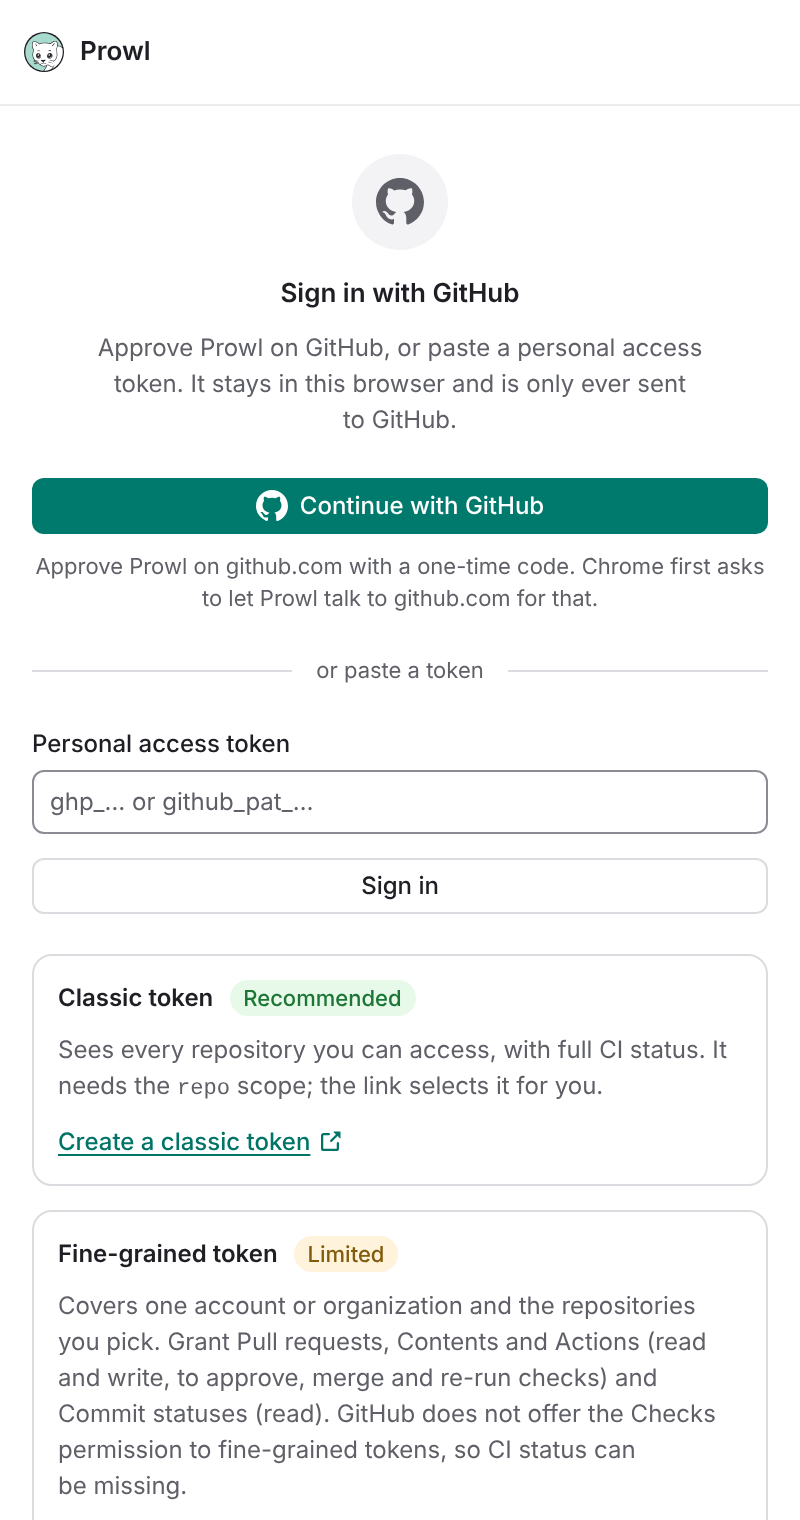
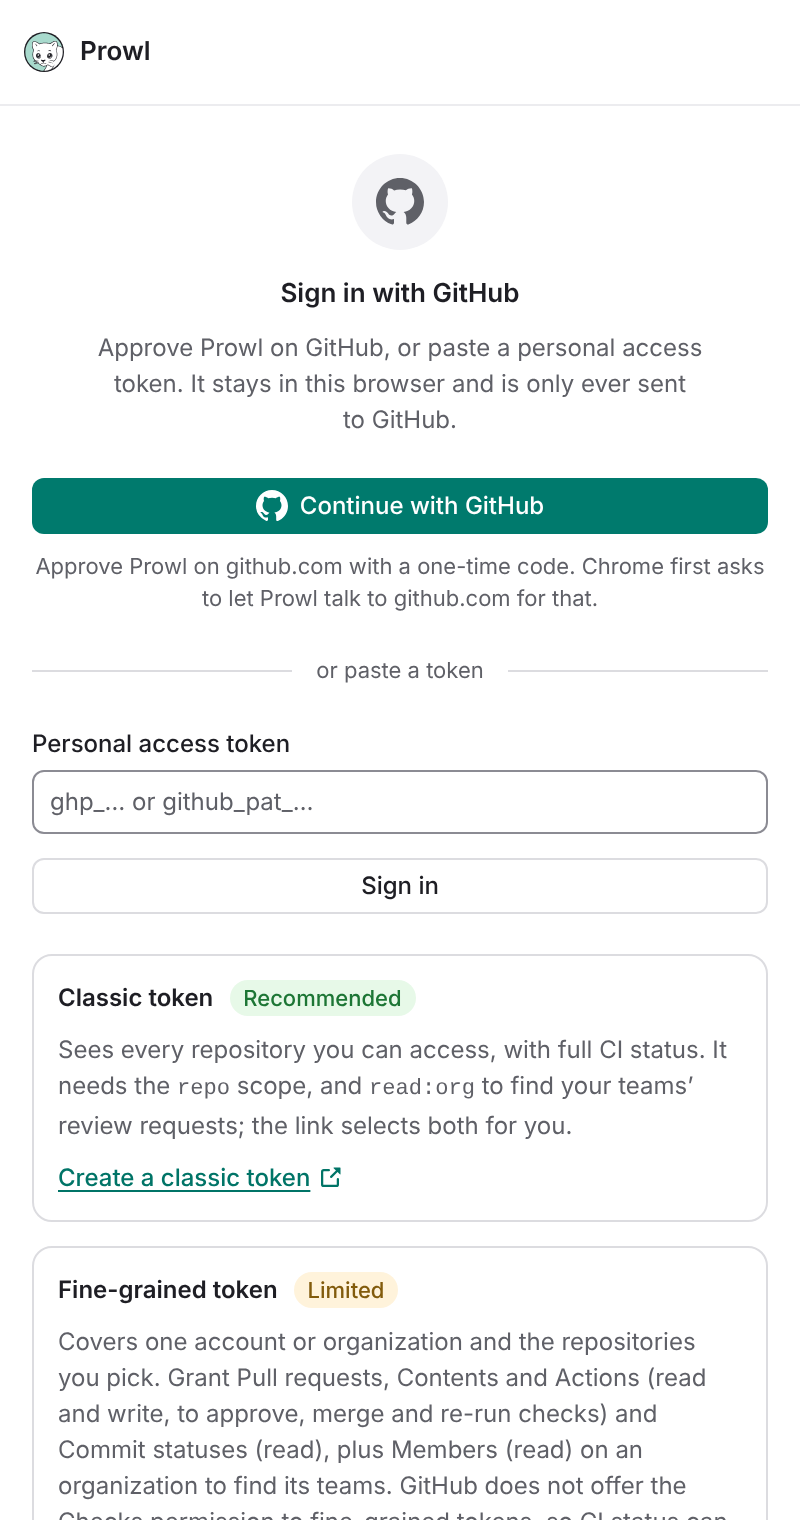
docs: audit follow-up, refreshed screenshots and store images
Architecture (poll interval was min 1/default 2, now min 2/default 5 as in
the code; SAML notes, token expiry, summary clicks, header inset), status
page brought to v1.3.1, auth guide (SAML, expiry), privacy, accessibility,
decisions, why a Dependabot pull request stays open (releasing), the
threat model and a security review entry for this audit.

Claude-Session: https://claude.ai/code/session_01DJF4RsqqqqS4tX5kLnJppf

Changed region(s): [[0.0312, 0.7112, 0.9688, 1.0], [0.7812, 0.7112, 0.8438, 0.7421], [0.875, 0.9895, 0.9062, 1.0]]

diff --git a/docs/architecture.md b/docs/architecture.md
@@ -54,7 +54,7 @@ in-memory updates that the next snapshot replaces.
 
 ## Data flow of a poll
 
-1. `chrome.alarms` fires `poll` every `settings.pollIntervalMinutes` (min 1, default 2). The
+1. `chrome.alarms` fires `poll` every `settings.pollIntervalMinutes` (min 2, default 5). The
    worker also polls on `runtime.onInstalled` / `onStartup`, and a forced poll on the panel's
    `{ type: 'poll', force: true }`.
 2. The poller skips if no auth (and clears the alarm), if the token was rejected (unless
@@ -136,7 +136,8 @@ GraphQL answers 200 even when a field failed. `graphql` throws on the first entr
 `NOT_FOUND` -> `not_found`, `UNPROCESSABLE` -> `validation`, anything else -> `graphql`), with the
 reset taken from the response headers. Reads that tolerate holes (`nodes(ids:)` with a deleted
 PR, a search over an org that needs SAML) pass `{ partial: true }` to get the data that did come
-back; mutations stay strict because their payload is null when they fail.
+back, and may pass `onPartialErrors` to read the errors' messages (token masked); mutations stay
+strict because their payload is null when they fail.
 `parseRateLimit(headers | rateLimit object)` (`rateLimit.ts`) normalizes both sources to the
 model's `RateLimit`.
 
@@ -200,8 +201,10 @@ returns `{ pullRequests, sections, sectionErrors, teamRequests, rateLimit }`:
   latest `ClosedEvent`), so the diff can emit `merged` / `closed`. Still-open ones only
   stopped matching and are dropped; merged or closed ones are never looked up again.
 - Both queries pass `{ partial: true }`: an org that requires SAML or a deleted PR leaves a
-  null node, which is skipped. `search` is non-null in the schema, so a search that fails as a
-  whole nulls `data` and still throws.
+  null node, which is skipped. A search whose errors mention SAML also gets a `sectionErrors`
+  entry for its section (an organization requires single sign-on the token is not authorized
+  for), shown above the PRs that did load; a deleted PR is skipped silently. `search` is
+  non-null in the schema, so a search that fails as a whole nulls `data` and still throws.
 
 Mapping (`mapPullRequest`):
 
@@ -419,12 +422,13 @@ the end of every poll that ran (never rejects: a failure is logged and the poll 
    one summary ("5 pull request updates", the first PRs listed). The notification id of a
    single event is its event id; a summary's is `summary:<time>`.
 4. Every reported event id is stored in `chrome.storage.session` under `notified` (event id ->
-   PR URL, newest 300, cleared with the browser session and on sign-out). That is the dedupe
-   (ids repeat for a re-run that fails again on the same commit) and how a click finds its PR.
+   PR URL, newest 300, cleared with the browser session and on sign-out), and a summary's id with
+   `<webUrl>/pulls`. That is the dedupe (ids repeat for a re-run that fails again on the same
+   commit) and how a click finds where to go.
 
 A click (`notifications.onClicked`, registered in `register.ts`) clears the notification and
-opens the stored URL in a tab when it is on the `env.webUrl` origin; a summary has no URL, so
-a click only clears it.
+opens the stored URL in a tab when it is on the `env.webUrl` origin: the PR, or for a summary the
+viewer's pull requests on GitHub.
 
 ## Storage
 
@@ -499,7 +503,10 @@ signal (`state/store.ts`).
   and `GET /user` in parallel (`client.restResponse` returns the headers; `x-oauth-scopes` is
   the only place GitHub reports a classic token's scopes). The token type comes from the prefix
   (`ghp_` classic, `github_pat_` fine-grained, `gho_` oauth, else `unknown`); `scopes` is empty
-  for tokens whose response carries no scopes header (fine-grained). It returns the `AuthState`
+  for tokens whose response carries no scopes header (fine-grained). `expiresAt` comes from
+  `GitHub-Authentication-Token-Expiration` on the same response (`parseTokenExpiration`: no header
+  is null, a token that never expires; one Prowl cannot read leaves it out, unknown). Settings,
+  Account shows it, and a week before it the status banner says so. It returns the `AuthState`
   plus an optional warning, and throws only `GitHubError`; `signInErrorMessage(error)` turns it
   into the text onboarding shows inline (never the token: the client masks it in GitHub's
   messages and our own messages do not contain it).
@@ -618,6 +625,7 @@ signal (`state/store.ts`).
   | `network` | "Offline — retrying in N min" (`nextAllowedAt`, else "retrying soon"; warning) | Retry (forced poll, which skips a backoff) |
   | any other error | "GitHub error — retrying in N min" and GitHub's message (danger) | Retry |
   | none, snapshot older than max(10 min, 5 intervals), no poll running | "Pull requests may be out of date" (warning) | Refresh now |
+  | none of the above, `auth.expiresAt` within 7 days (`describeTokenExpiry`) | "Your GitHub token expires in 3 days" (warning) | Renew token: `navigate('onboarding')` |
 
   Every banner adds "Last updated 14 min ago." when the snapshot is at least a minute old. Only
   the title and detail are in the live region (`role="status"`, or `alert` for a rejected token):
@@ -638,7 +646,8 @@ signal (`state/store.ts`).
   selection, and the card's `keydown` handler folds an expanded card on Escape and focuses its
   chevron. Both are native listeners on the `li`, because the card itself is not a control. Chips
   and the sentence come from `components/prStatus.ts` (pure, table-tested; ready-to-merge reuses
-  `isReadyToMerge` from the diff engine). The unseen dot comes from `isSeen`, like the badge, and
+  `isReadyToMerge` from the diff engine). The footer names who opened it ("Opened 9 d ago by
+  alice"), except on the viewer's own PRs. The unseen dot comes from `isSeen`, like the badge, and
   `data-pr-id` / `data-unseen` sit on the summary, which is what the seen observer watches (an
   expanded card is as tall as it likes). Relative times take `now` from `useNow` in the list.
 - Actions (`components/PullRequestDetails.tsx`, `ReviewActions.tsx`): an expanded card has an
@@ -659,7 +668,8 @@ signal (`state/store.ts`).
   the first allowed) and an optional commit title (not offered for a rebase). Focus starts on the
   method, never on the button that merges. It sends `ProwlMerge` with `headSha` of the PR as the
   panel last polled it. Readiness is not enforced by the panel (an admin may bypass rules, and
-  GitHub knows better): the Merge group above lists the blockers, and GitHub's refusal comes back
+  GitHub knows better): the Merge group above lists the blockers, the dialog (which covers them)
+  repeats them in one line ("Not ready: changes requested by alice; …"), and GitHub's refusal comes back
   in a toast after the dialog closed, with the method and title kept for the next try, plus a
   forced poll because a refusal usually means the PR changed (a moved head, new conflicts). On
   success the toast and forced poll follow the usual route: the merged PR is in no search result
@@ -741,7 +751,10 @@ signal (`state/store.ts`).
 - The section bar (`components/SectionTabs.tsx`) is fixed at the bottom of the list: up to five
   sections as tabs, past five the first four and a "More" menu with the rest. While it is shown
   `:root` gets `--app-inset-bottom`, which the shell, toasts and focus scrolling keep clear of;
-  `Menu` and the seen observer measure the element marked `data-bottom-bar` instead.
+  `Menu` and the seen observer measure the element marked `data-bottom-bar` instead. The sticky
+  header sets `--app-inset-top` the same way, so focus and jumps never land under it.
+- Settings opens with links to each group ("Settings sections"). The hash is the route, so a
+  link scrolls to its group and focuses the group's title instead of following its `href`.
 
 ## Site access lock
 

diff --git a/docs/security/threat-model.md b/docs/security/threat-model.md
@@ -3,7 +3,8 @@
 Prowl is a Manifest V3 extension that holds a GitHub token able to read private repositories,
 approve, merge and re-run CI. That token is the asset worth protecting. Method: STRIDE over the
 data flows below. Last reviewed: 2026-10-06, for the v1.0.0 release; the site-access lock below was
-added on 2026-10-07 (US-032).
+added on 2026-10-07 (US-032); Trusted Types, the site's CSP and token expiry on 2026-10-30
+(review.md).
 
 ## Assets
 
@@ -37,12 +38,13 @@ another extension or web page could send.
 |---|---|---|---|
 | S | A web page or another extension sends Prowl messages to trigger polls or sign-out | No `externally_connectable`, no `onMessageExternal`; `onMessage` drops any sender whose `id` is not Prowl's | `src/background/messages.ts`, manifest test |
 | S | A phishing page imitates the device-flow screen | Device flow only talks to `env.webUrl` (`github.com`); the user enters the code on github.com itself | `src/lib/github/auth/deviceFlow.ts` |
-| T | Script injection through PR titles, labels, branch names | Preact renders text only; `dangerouslySetInnerHTML` is a lint error; no `innerHTML`, `eval` or `new Function` anywhere | Biome `security/noDangerouslySetInnerHtml` |
+| T | Script injection through PR titles, labels, branch names | Preact renders text only; `dangerouslySetInnerHTML` is a lint error; no `innerHTML`, `eval` or `new Function` anywhere; the CSP enforces Trusted Types (`require-trusted-types-for 'script'; trusted-types 'none'`), so Chrome itself refuses a string in an HTML or script sink (E2E checks it) | Biome `security/noDangerouslySetInnerHtml`, `src/manifest.ts`, `tests/e2e/smoke.spec.ts` |
 | T | Malicious label color breaks out of a style attribute | Colors validated as 6 hex digits by the mapper, fallback neutral | `src/lib/github/mapPullRequest.ts` |
 | T | A push lands just before Approve, so unseen code gets approved or merged | Reviews pass `commitOID` and merges `expectedHeadOid` = the head the panel showed | `src/lib/github/actions.ts` |
 | T | A branch name with shell syntax runs code when pasted into a terminal | "Copy branch name" warns when the name holds characters outside `[\w./+@-]` or bidi controls | `PrMenu.tsx` |
 | I | A snapshot from a previous account shows its private PRs to the next one | The list ignores a snapshot whose viewer is not the signed-in account; sign-in clears a foreign snapshot | `List.tsx`, `session.ts` |
-| T | Remote code loaded into extension pages | CSP `script-src 'self'; object-src 'none'; base-uri 'none'`; MV3 forbids remote code; no CDN assets | `src/manifest.ts` |
+| T | Remote code loaded into extension pages | CSP `script-src 'self'; object-src 'none'; base-uri 'none'` plus Trusted Types; MV3 forbids remote code; no CDN assets | `src/manifest.ts` |
+| T | Raw HTML in a Markdown page of the website (changelog, guides) runs script or loads from elsewhere | The site ships no JS; every page carries a CSP with `script-src 'none'`, `default-src 'none'` and only same-origin images and connections | `site/src/layouts/Base.astro` |
 | R | Actions taken without the user's intent | Merge and request changes need a confirmation dialog; every action is a user click; GitHub's audit log records them as the user | `src/sidepanel/components/*Actions*` |
 | I | Token leaks into logs, errors, UI or notifications | Client masks the token in every message it builds or relays (tested on message, stack, JSON, inspect); the token is never rendered; sign-in errors never echo input | `src/lib/github/client.ts`, `errors.ts`, `pat.ts` |
 | I | Token sent to a non-GitHub host | The only Bearer requests go to `env.apiUrl`; CSP `connect-src` allows only `api.github.com` and `github.com`; host permission only `api.github.com` | `client.ts`, manifest |
@@ -64,6 +66,10 @@ another extension or web page could send.
 - **Local attacker or malware with access to the browser profile** can read the token from
   extension storage. Encrypting it with a key stored next to it would not help; use a
   fine-grained token limited to a few repositories, or revoke the token, to bound the risk.
+- **Tokens from Continue with GitHub never expire** (OAuth Apps), and a classic token may be
+  created without an expiry. Prowl shows the expiry GitHub reports (Settings, Account) and warns a
+  week before a token stops working, which encourages tokens that expire; revoking one stays the
+  user's call (auth.md).
 - **The `repo` scope is broad** for classic tokens and the OAuth App (GitHub offers nothing
   narrower that still reads private PRs and CI). Fine-grained tokens narrow it but lose CI status
   (no Checks permission for tokens).

diff --git a/docs/status.md b/docs/status.md
@@ -1,30 +1,24 @@
 # Status
 
-## v1.0.0 release (2026-10-06)
-
-**Released**: [v1.0.0](https://github.com/aemard/prowl/releases/tag/v1.0.0)
-
-**Assets**:
-- `prowl-v1.0.0.zip` (72,351 bytes)
-- `prowl-v1.0.0.sbom.spdx.json`
-- Provenance attestation ([GitHub](https://github.com/aemard/prowl/releases/tag/v1.0.0) → Release assets → Provenance)
-
-v1.0.0 scope is complete: every story in `prd.json` passes. This page tracks what is left
-outside the v1 scope, in priority order.
+**Latest release**: [v1.3.1](https://github.com/aemard/prowl/releases/tag/v1.3.1) (2026-10-08),
+on the [Chrome Web Store](https://chromewebstore.google.com/detail/prowl/homnofbclfgoailffidcbgekohciglcf).
+Every release ships its zip, an SBOM and a provenance attestation, and rebuilds byte for byte
+([verify a release](releasing.md#verify-a-release)). What changed is in the
+[changelog](../CHANGELOG.md); this page tracks what is left, in priority order.
 
 ## Needs the maintainer (repository settings)
 
-1. **Protect `v*` tags** with a ruleset so only maintainers can cut signed releases.
-2. **OAuth App client id** (`PROWL_GITHUB_CLIENT_ID` repository variable) to enable
-   "Continue with GitHub" in release builds; until then, release zips support token sign-in.
+1. **OAuth App client id** (`PROWL_GITHUB_CLIENT_ID` repository variable): release builds offer
+   "Continue with GitHub" only with it; without it they support token sign-in.
+2. **Dependabot alerts and security updates** on (Settings, Advanced Security): the weekly
+   version updates do not cover an advisory published against a lockfile that has not changed.
 
-## Next (post v1)
+## Next
 
-1. Chrome Web Store listing: publishing is automated after approval; the maintainer creates the
-   item and the Google access once (`docs/chrome-web-store.md`).
-2. Verify against live GitHub what the mock cannot: branch-protection fields readable by
+1. Verify against live GitHub what the mock cannot: branch-protection fields readable by
    non-admin tokens ("1 approval required"), exact merge refusal wording, the Chrome permission
-   prompt for the device flow, and CI visibility with fine-grained tokens.
-3. GitHub Enterprise Server support (custom API/web origins as optional host permissions).
-4. Merge queue and auto-merge (today GitHub's refusal is shown as is).
-5. Localization (strings are in components; English only).
+   prompt for the device flow, CI visibility with fine-grained tokens, and the wording of the
+   SAML errors and of `GitHub-Authentication-Token-Expiration` that Prowl reads.
+2. GitHub Enterprise Server support (custom API/web origins as optional host permissions).
+3. Merge queues (today GitHub's refusal is shown as is).
+4. Localization (strings are in components; English only).

diff --git a/docs/decisions.md b/docs/decisions.md
@@ -249,3 +249,8 @@ One line each, with the reason. Product decisions from the brief are not repeate
 - 2026-10-08 — Polling defaults to every 5 minutes, 2 minutes at least: notifications stay timely, and a poll of many sections and teams takes a minute on busy organizations. Stored intervals of 1 minute are raised to 2; stored ones are otherwise kept.
 - 2026-10-08 — Release path hardening, keeping the store approval of 2026-10-07: a `main` ruleset (pull request, signed commits, `Verify` and CodeQL), `v*` tags that cannot move or be deleted, a hand-pushed tag refused unless it is on `main`, and immutable releases (draft until the assets are attached, then published). Each release also carries its Sigstore bundle (`.sigstore.json`) so it can be verified offline. The zip's fixed time is built in local time because zip stores wall-clock fields: the UTC instant made builds outside UTC differ (v1.2.0 rebuilt in Paris had every file equal and a different hash).
 - 2026-10-08 — `fast-check` (dev only) fuzzes the trust boundaries in `tests/unit/fuzz.test.ts`: token masking of GitHub's error text, `normalizeSettings` on any stored or synced value (it must be idempotent), and `isGitHubUrl` against look-alike hosts. Each property fails on a deliberately broken implementation (no masking, a `startsWith` origin check). It is also what OpenSSF Scorecard's Fuzzing check looks for.
+- 2026-10-30 — The extension's CSP enforces Trusted Types (`require-trusted-types-for 'script'; trusted-types 'none'`): nothing in Prowl writes HTML or script from strings, so no policy is defined and Chrome refuses any such write. Preact only reaches `innerHTML` for `dangerouslySetInnerHTML`, which the linter already forbids.
+- 2026-10-30 — Biome does not format Markdown or YAML (`files.includes` leaves them out). Biome 2.6 started formatting both, which would rewrite every doc and workflow in one dependency bump; the docs keep their hand-aligned tables.
+- 2026-10-30 — `github/codeql-action*` updates come as one Dependabot group: `init` and `analyze` must run the same version, so pull requests for each alone always failed CodeQL and never merged.
+- 2026-10-30 — The token's expiry comes from `GitHub-Authentication-Token-Expiration` on the `GET /user` call sign-in already makes (no extra request, no polling of it). A week ahead, the status banner offers to sign in with a new token; past it, the 401 banner takes over.
+- 2026-10-30 — A search's SAML holes become a `sectionErrors` entry: the section keeps what loaded (like a refused team search) and the poller keeps snoozes and mutes of PRs it could not see. Detected from the partial errors' messages (`/SAML/`), which the client now hands over with the token masked.

diff --git a/docs/security/review.md b/docs/security/review.md
@@ -68,3 +68,21 @@ GitHub's public schema.
 `pnpm audit --prod`: no known vulnerabilities.
 
 **Verdict: APPROVE**, once `Verify` is a required check on `main` (F7).
+
+## 2026-10-30 — audit of v1.3.1 (author review)
+
+Scope: `src/`, the manifest and CSP, the website, workflows and Dependabot, dependencies
+(`pnpm audit`), at `baa49e5`. Method: code audit against [threat-model.md](threat-model.md), the
+open Dependabot pull requests and their CI runs.
+
+| # | Severity | Finding | Resolution |
+|---|---|---|---|
+| F1 | Low | Known advisories in tools, none shipped: undici (astro > unifont) and zod (astro) in the site build, fast-uri (lighthouse > ajv), happy-dom in unit tests | Fixed: astro 7.4.2 (#27), happy-dom 21.0.4 (#28), lockfile refresh to undici 8.12.3 and fast-uri 3.1.9. Accepted: zod 3.25.76 under lighthouse > chromium-bidi (no fixed 3.x; Lighthouse only audits the built site in CI). `pnpm audit --prod`: no known vulnerabilities |
+| F2 | Low | CodeQL `init` and `analyze` stuck on 4.38.2: Dependabot opened one pull request each, and a mismatched pair fails the job, so neither could ever merge | Fixed: both pinned to 4.39.1 like `upload-sarif`; `github/codeql-action*` grouped in `dependabot.yml` |
+| F3 | Info | The ban on HTML sinks was a lint rule only | Fixed: the CSP enforces Trusted Types; E2E checks Chrome refuses an `innerHTML` string |
+| F4 | Info | The website had no CSP while rendering Markdown, which may hold raw HTML | Fixed: a CSP meta tag without scripts on every page; Lighthouse still 100 |
+| F5 | Info | A token's expiry was unknown until GitHub answered 401 | Fixed: `GitHub-Authentication-Token-Expiration` is stored with the sign-in, shown in Settings and announced a week ahead |
+| F6 | Info | The E2E checks that the token never shows used `innerText`, which skips hidden text | Fixed: `textContent` |
+| F7 | Info | Pull requests of an organization that enforces SAML vanished silently | Fixed: the section says why and how to authorize the token |
+
+**Verdict: APPROVE** (no critical or high findings).

diff --git a/docs/accessibility.md b/docs/accessibility.md
@@ -29,6 +29,8 @@ trap focus and return it to the control that opened them.
 
 - Cards: the title is a link named after the PR; the expand button describes every fact on the
   card (CI, reviews, merge state, labels, activity), so status is never only a color or an icon.
+  Who opened a pull request is written out ("Opened 9 d ago by alice"), not only shown as an
+  avatar.
 - Grouped lists keep list semantics: the section's list holds one item per repository, each with
   a heading button ("acme/web 2 pull requests", expanded or collapsed) and a list named after the
   repository, so a screen reader can jump by heading and hears how many cards are inside.
@@ -44,6 +46,9 @@ trap focus and return it to the control that opened them.
   against the table in `docs/design.md`); a label's own color only fills a dot beside its name,
   which uses the muted text token.
 - Visible focus ring on every control; `prefers-reduced-motion` turns off non-essential motion.
+- A focused element is never hidden under the sticky header or the section bar: both keep
+  scrolling clear of them (`scroll-padding`).
+- Settings starts with links to each of its groups; following one moves focus to the group's title.
 - Layout works from 320 px to full width without horizontal scrolling.
 
 ## How it is tested

diff --git a/docs/auth.md b/docs/auth.md
@@ -116,6 +116,14 @@ owned by your own account sees none.
   Authorize the token for the organization (classic) or ask an owner to approve it.
 - **A private repository is missing**: the token has no `repo` scope, or it is not authorized
   for that organization.
+- **"An organization requires single sign-on (SAML)…"** above a section: some pull requests are
+  in an organization that enforces SAML and has not authorized this token. For a classic token:
+  GitHub, Settings, Developer settings, Personal access tokens, **Configure SSO** next to the
+  token, then authorize the organization. For Continue with GitHub, authorize Prowl when GitHub
+  offers it, or ask an organization owner. The section keeps what did load.
+- **"Your GitHub token expires in 3 days"**: GitHub said when the token you pasted stops working
+  (Settings, Account shows the date). Create a new one and choose **Renew token** to sign in with
+  it before then; your settings stay.
 - **No CI status on a pull request**: you use a fine-grained token (see above).
 - **Team reviews says "GitHub would not list your teams"**: sign in again with the `read:org`
   scope (Continue with GitHub asks for it; tick it on a classic token), or give a fine-grained

diff --git a/docs/releasing.md b/docs/releasing.md
@@ -114,6 +114,18 @@ One-time setup (needs admin rights; without it the workflow fails or merges too 
 
 To keep one pull request from merging by itself, press "Disable auto-merge" on it.
 
+A Dependabot pull request that stays open is one of these:
+
+- **Left for a person on purpose**: a runtime dependency (Astro, Preact…) or a major update. The
+  workflow does not turn auto-merge on; review and merge it by hand.
+- **A red required check**: auto-merge waits for green. A new tool version that reformats or
+  lints differently (Biome) needs a fix on `main` first; Dependabot then rebases its pull request.
+  Actions that must move together (`github/codeql-action` `init` and `analyze`) are grouped in
+  `dependabot.yml` for that reason.
+- **Auto-merge turned off by GitHub** although every check is green: the pull request's timeline
+  says so ("disabled auto-merge"). Merge it by hand, or comment `@dependabot rebase` to run it
+  again.
+
 ## Toolchain
 
 - **Node** follows the newest Active LTS release: `.nvmrc` (used by CI, Pages, releases and the

diff --git a/docs/privacy.md b/docs/privacy.md
@@ -14,7 +14,8 @@ Prowl keeps its data in the extension storage of your browser profile (`chrome.s
 which Chrome does not sync to other devices. Prowl does not encrypt it, so anyone who can read
 your browser profile can read your token.
 
-- **Account:** your GitHub token, its type and scopes, and your login, name and avatar address.
+- **Account:** your GitHub token, its type, scopes and expiry date (when GitHub gives one), and
+  your login, name and avatar address.
   Removed when you sign out.
 - **Pull requests:** the pull requests last fetched, with title, author, labels, branches, CI,
   review and merge state. Removed when you sign out.

diff --git a/README.md b/README.md
@@ -44,7 +44,8 @@ attestation, and rebuilds byte for byte: see [verify a release](docs/releasing.m
 | Fine-grained token | Pull requests, Contents, Actions (read and write), Commit statuses and Metadata (read) | Can be missing |
 
 Fine-grained tokens cannot read check runs (GitHub only grants the Checks permission to Apps), so
-CI status may be missing with them. Details: [sign-in guide](docs/auth.md).
+CI status may be missing with them. Prowl shows when your token expires and warns a week before.
+Details: [sign-in guide](docs/auth.md).
 
 ## Features
 
